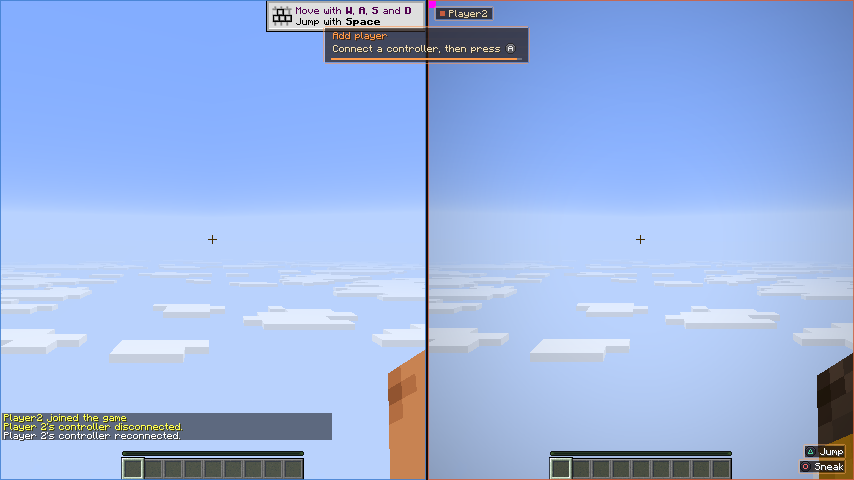
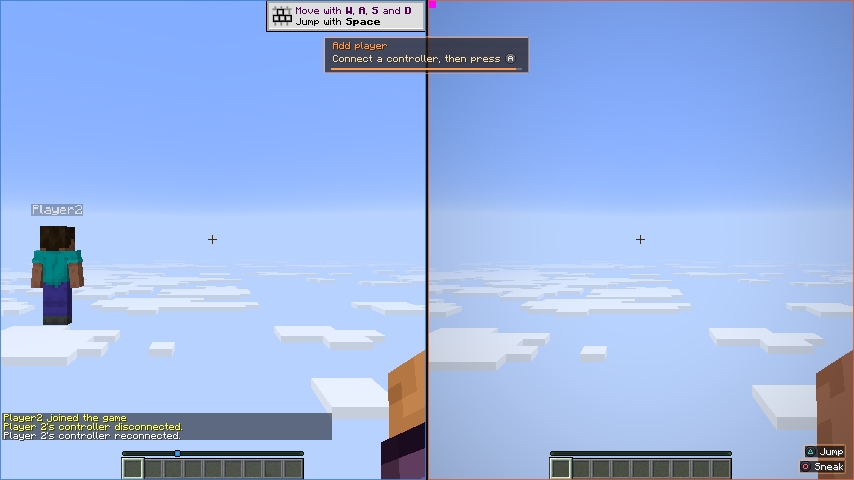
fix: join prompt sits below Minecraft's toasts

diff --git a/fabric/src/client/java/dev/hearthside/fabric/client/ui/JoinToast.java b/fabric/src/client/java/dev/hearthside/fabric/client/ui/JoinToast.java
@@ -2,12 +2,18 @@ package dev.hearthside.fabric.client.ui;
 
 import dev.hearthside.core.input.Control;
 import dev.hearthside.core.input.PadStyle;
+import dev.hearthside.core.layout.BelowToasts;
 import dev.hearthside.core.layout.Ease;
+import dev.hearthside.core.layout.Rect;
+import dev.hearthside.core.layout.ViewFrame;
 import dev.hearthside.fabric.HearthsideMod;
 import dev.hearthside.fabric.client.compositor.OverlayContext;
 import dev.hearthside.fabric.client.compositor.OverlayLayer;
+import dev.hearthside.fabric.client.input.ToastRects;
 import java.time.Duration;
+import java.util.ArrayList;
 import java.util.EnumSet;
+import java.util.List;
 import java.util.Set;
 import java.util.function.Supplier;
 import net.minecraft.client.Minecraft;
@@ -28,6 +34,12 @@ import net.minecraft.network.chat.Component;
 public final class JoinToast implements OverlayLayer {
 	public static final Duration IN = Duration.ofMillis(180), OUT = Duration.ofMillis(150);
 	private static final int HEIGHT = 38, ORANGE = 0xFFFF9A4A, CREAM = 0xFFF3DFB6;
+	/** Kept between the toast and one of Minecraft's above it. */
+	private static final int GAP = 4;
+	/** How fast it moves to a new place below Minecraft's toasts, in GUI pixels a second (a toast's height in ~0.15 s). */
+	private static final float SETTLE_SPEED = 220f;
+	/** How far it drops as it fades in under one of Minecraft's toasts: from that toast's edge, never over it. */
+	private static final int FADE_DROP = GAP;
 	/** The Add player prompt's controller: it isn't any one controller's. */
 	private static final String ADD_PLAYER = "";
 
@@ -44,6 +56,25 @@ public final class JoinToast implements OverlayLayer {
 	private boolean reduceMotion;
 	/** For the Add player prompt: the free controllers' family, or null while none is connected. */
 	private Supplier<PadStyle> freeStyle = () -> null;
+	/** Where the toast's top sits now, gliding to its place clear of Minecraft's toasts; NaN while out of sight. */
+	private float placed = Float.NaN;
+	private long placedAt;
+	/** The slide being drawn (a showing's start, or minus a leaving's), and whether it fades rather than slides. */
+	private long slideKey = Long.MIN_VALUE;
+	private boolean fadeSlide;
+	/** For the E2E: where the toast was last drawn, and Minecraft's toasts it kept clear of then. */
+	private Rect e2eDrawn;
+	private List<Rect> e2eToasts = List.of();
+
+	/** E2E: where the toast was last drawn (null before it ever was), in the units it was drawn in. */
+	public Rect e2eDrawn() {
+		return e2eDrawn;
+	}
+
+	/** E2E: Minecraft's toasts as the toast last saw them, in the same units. */
+	public List<Rect> e2eToasts() {
+		return e2eToasts;
+	}
 
 	/** Over every view and everything on them (cards, name tags, borders, the party panel). */
 	@Override
@@ -134,23 +165,49 @@ public final class JoinToast implements OverlayLayer {
 
 	@Override
 	public void extract(GuiGraphicsExtractor g, OverlayContext context) {
-		// Over split play: centred on the window, below the first row of name tags and Minecraft's own toasts.
-		draw(g, context.guiWidth(), context.nanos(), 26);
+		// Over split play: centred on the window, below the first row of name tags, and below any of Minecraft's toasts
+		// in player 1's view it would meet.
+		draw(g, context.guiWidth(), context.nanos(), 26, hostToasts(context));
 	}
 
 	/** On player 1's own screen, alone: centred at the top, clear of Minecraft's toasts (the right 160 GUI px). */
 	public void draw(GuiGraphicsExtractor g, int width, long now) {
-		draw(g, width, now, -1);
+		draw(g, width, now, -1, ToastRects.visible(Minecraft.getInstance()));
 	}
 
-	/** Draws the toast at the top; {@code top} >= 0 places it there, centred, else it is clear of the toast column. */
-	private void draw(GuiGraphicsExtractor g, int width, long now, int top) {
+	/** Minecraft's toasts in player 1's view (their GUI pixels), in the overlay's units over that view. */
+	private static List<Rect> hostToasts(OverlayContext context) {
+		Minecraft minecraft = Minecraft.getInstance();
+		ViewFrame own = context.views().stream().filter(v -> v.seat() == 0).findFirst().orElse(null);
+		int guiWidth = minecraft.getWindow().getGuiScaledWidth(), guiHeight = minecraft.getWindow().getGuiScaledHeight();
+		if (own == null || guiWidth <= 0 || guiHeight <= 0) {
+			return List.of();
+		}
+		Rect view = own.rect();
+		float sx = view.width() / (float) guiWidth, sy = view.height() / (float) guiHeight;
+		List<Rect> toasts = new ArrayList<>();
+		for (Rect r : ToastRects.visible(minecraft)) {
+			int x = view.x() + (int) Math.floor(r.x() * sx), y = view.y() + (int) Math.floor(r.y() * sy);
+			int right = view.x() + (int) Math.ceil((r.x() + r.width()) * sx);
+			int bottom = view.y() + (int) Math.ceil((r.y() + r.height()) * sy);
+			toasts.add(new Rect(x, y, right - x, bottom - y));
+		}
+		return toasts;
+	}
+
+	/**
+	 * Draws the toast at the top; {@code top} >= 0 places it there, centred, else it is clear of the toast column. Where
+	 * it would meet one of Minecraft's {@code toasts} it sits just below the lowest, gliding there and back as they come
+	 * and go; it fades in there instead of sliding down across that toast.
+	 */
+	private void draw(GuiGraphicsExtractor g, int width, long now, int top, List<Rect> toasts) {
 		Prompt prompt = shown != null ? shown : leaving;
 		float offset = offset(now);
 		if (prompt == null || offset <= -HEIGHT - 6) {
 			if (shown == null) {
 				leaving = null;
 			}
+			placed = Float.NaN;
 			return;
 		}
 		Font font = Minecraft.getInstance().font;
@@ -178,20 +235,47 @@ public final class JoinToast implements OverlayLayer {
 		int line = font.width(before) + 4 + glyph + afterW;
 		int w = Math.max(130, Math.max(font.width(heading), line) + 24);
 		int x = top >= 0 ? (width - w) / 2 : Math.max(6, Math.min((width - w) / 2, width - 160 - 8 - w));
-		int y = (top >= 0 ? top : 6) + Math.round(offset);
-		g.blitSprite(RenderPipelines.GUI_TEXTURED, HearthSprites.GLASS_PANEL, x, y, w, HEIGHT);
-		HearthDraw.label(g, font, heading, x + 10, y + 6, ORANGE);
+		int own = top >= 0 ? top : 6;
+		int wanted = BelowToasts.top(own, x, w, HEIGHT, GAP, toasts);
+		if (Float.isNaN(placed) || reduceMotion) {
+			placed = wanted; // it appears where it belongs
+		} else {
+			// Glides, so its own slide never jumps when a toast comes or goes.
+			float step = SETTLE_SPEED * Math.max(0, now - placedAt) / 1e9f;
+			placed = placed < wanted ? Math.min(wanted, placed + step) : Math.max(wanted, placed - step);
+		}
+		placedAt = now;
+		int base = Math.round(placed);
+		// Each slide, in or out, keeps the way it started: a full slide from the top, or, under one of Minecraft's toasts
+		// (which a full slide would cross), a short drop as it fades in, or rise as it fades out.
+		long slide = shown != null ? prompt.since() : -leavingSince;
+		if (slide != slideKey) {
+			slideKey = slide;
+			fadeSlide = base > own;
+		}
+		float progress = 1 + offset / HEIGHT; // 0 out of sight, 1 in place
+		int y = base + (fadeSlide ? -Math.round(FADE_DROP * (1 - progress)) : Math.round(offset));
+		float alpha = fadeSlide ? Math.clamp(progress, 0f, 1f) : 1f;
+		e2eDrawn = new Rect(x, y, w, HEIGHT);
+		e2eToasts = toasts;
+		g.blitSprite(RenderPipelines.GUI_TEXTURED, HearthSprites.GLASS_PANEL, x, y, w, HEIGHT, faded(0xFFFFFFFF, alpha));
+		HearthDraw.label(g, font, heading, x + 10, y + 6, faded(ORANGE, alpha));
 		int lx = x + 10;
-		HearthDraw.label(g, font, before, lx, y + 19, CREAM);
+		HearthDraw.label(g, font, before, lx, y + 19, faded(CREAM, alpha));
 		lx += font.width(before) + 4;
-		HearthDraw.glyph(g, Control.A, style, lx, y + 17);
+		HearthDraw.glyph(g, Control.A, style, lx, y + 17, faded(0xFFFFFFFF, alpha));
 		if (afterW > 0) {
-			HearthDraw.label(g, font, after, lx + glyph + 4, y + 19, CREAM);
+			HearthDraw.label(g, font, after, lx + glyph + 4, y + 19, faded(CREAM, alpha));
 		}
 		// The confirm window running out.
 		float remaining = Math.clamp((prompt.until() - now) / (float) (prompt.until() - prompt.since()), 0f, 1f);
 		int barX = x + 8, barW = w - 16, barY = y + HEIGHT - 6;
-		g.fill(barX, barY, barX + barW, barY + 2, 0x40FFFFFF);
-		g.fill(barX, barY, barX + Math.round(barW * remaining), barY + 2, ORANGE);
+		g.fill(barX, barY, barX + barW, barY + 2, faded(0x40FFFFFF, alpha));
+		g.fill(barX, barY, barX + Math.round(barW * remaining), barY + 2, faded(ORANGE, alpha));
+	}
+
+	/** {@code argb} with its alpha scaled by {@code alpha}. */
+	private static int faded(int argb, float alpha) {
+		return Math.round((argb >>> 24) * alpha) << 24 | argb & 0xFFFFFF;
 	}
 }

diff --git a/fabric/src/client/java/dev/hearthside/fabric/client/dev/E2eDriver.java b/fabric/src/client/java/dev/hearthside/fabric/client/dev/E2eDriver.java
@@ -4490,6 +4490,17 @@ public final class E2eDriver {
 		check(onRender(() -> minecraft.gui.screen() == null), "Add player closes the menu");
 	}
 
+	/** The join prompt as last drawn overlaps none of Minecraft's toasts in player 1's view (it sits below them). */
+	private void promptClearOfToasts(String shot) throws Exception {
+		var toast = onRender(() -> Party.current().joinToast());
+		var drawn = onRender(toast::e2eDrawn);
+		var toasts = onRender(toast::e2eToasts);
+		HearthsideMod.LOGGER.info("Hearthside E2E {} prompt={} toasts={}", shot, drawn, toasts);
+		check(drawn != null, shot + ": the prompt was drawn");
+		check(!toasts.isEmpty(), shot + ": it saw the tutorial toast");
+		check(toasts.stream().noneMatch(drawn::intersects), shot + ": the prompt " + drawn + " overlaps a toast " + toasts);
+	}
+
 	/** Backs a newcomer out of their profile picker and waits until their seat is free. */
 	private void backOut(int pad) throws Exception {
 		if (onRender(() -> card(2) != null)) {
@@ -4505,12 +4516,28 @@ public final class E2eDriver {
 	 */
 	private void addPlayer() throws Exception {
 		long mark = hostLogLength();
+		// Minecraft's keyboard tutorial toast in player 1's view, by the window's centre where the prompt hangs: the prompt
+		// sits below it, never over it. The new world's own is still up unless an earlier step took a controller.
+		TutorialToast tutorial = onRender(() -> {
+			if (hasTutorialToast()) {
+				return null;
+			}
+			TutorialToast t = new TutorialToast(minecraft.font, TutorialToast.Icons.MOVEMENT_KEYS,
+					Component.literal("Move with W, A, S and D"), Component.literal("Jump with Space"), false);
+			minecraft.gui.toastManager().addToast(t);
+			return t;
+		});
+		waitFor("the keyboard tutorial toast showing", Duration.ofSeconds(3), () -> onRender(this::hasTutorialToast));
+		Thread.sleep(1000); // slid in
 		try {
 			// (b) The prompt expires after 15 s.
 			chooseAddPlayer();
 			waitFor("the add-player prompt", Duration.ofSeconds(5), () -> hostLogSince(mark).contains("hearthside add player prompt shown"));
-			Thread.sleep(400); // slid into place
+			Thread.sleep(50);
+			promptClearOfToasts("add-player coming in"); // its slide doesn't cross the tutorial toast either
+			Thread.sleep(400); // in place
 			windowShot("add-player-connect"); // no free controller yet: "Connect a controller, then press A"
+			promptClearOfToasts("add-player-connect");
 			jumpJoinClock(16);
 			waitFor("(b) the prompt expired", Duration.ofSeconds(5),
 					() -> hostLogSince(mark).contains("hearthside add player prompt expired"));
@@ -4522,6 +4549,7 @@ public final class E2eDriver {
 			chooseAddPlayer();
 			Thread.sleep(400);
 			windowShot("add-player"); // "Press A on a new controller to join"
+			promptClearOfToasts("add-player");
 			press(ADD_PAD, PadButton.A);
 			waitFor("(a) one A joins: a newcomer choosing a profile", Duration.ofSeconds(5),
 					() -> onRender(() -> card(2) != null));
@@ -4544,9 +4572,27 @@ public final class E2eDriver {
 			waitFor("Esc cancelled the prompt", Duration.ofSeconds(5),
 					() -> hostLogSince(cancel).contains("hearthside add player prompt cancelled"));
 			check(onRender(() -> minecraft.gui.screen() == null), "and didn't open the pause menu");
+
+			// B on player 1's controller cancels it too (after the screenshots: taking a controller clears the keyboard
+			// tutorial toast).
+			claimHostPad();
+			try {
+				long padCancel = hostLogLength();
+				chooseAddPlayer();
+				press(HOST_PAD, PadButton.B);
+				waitFor("B on player 1's controller cancelled the prompt", Duration.ofSeconds(5),
+						() -> hostLogSince(padCancel).contains("hearthside add player prompt cancelled"));
+				check(onRender(() -> minecraft.gui.screen() == null && !Party.current().addPlayerShowing()),
+						"and opened nothing");
+			} finally {
+				releaseHostPad();
+			}
 		} finally {
 			onRender(() -> {
 				minecraft.gui.setScreen(null);
+				if (tutorial != null) {
+					tutorial.hide();
+				}
 				return null;
 			});
 			backOut(ADD_PAD);

diff --git a/core/src/test/java/dev/hearthside/core/layout/BelowToastsTest.java b/core/src/test/java/dev/hearthside/core/layout/BelowToastsTest.java
@@ -1,0 +1,43 @@
+package dev.hearthside.core.layout;
+
+import static org.assertj.core.api.Assertions.assertThat;
+
+import java.util.List;
+import org.junit.jupiter.api.Test;
+
+/** The join prompt keeps clear of Minecraft's toasts in player 1's view (Spec E section 3.4). */
+class BelowToastsTest {
+	static final int X = 100, W = 200, H = 38, GAP = 4, TOP = 26;
+
+	@Test
+	void staysAtItsPlaceWithNoToasts() {
+		assertThat(BelowToasts.top(TOP, X, W, H, GAP, List.of())).isEqualTo(TOP);
+	}
+
+	@Test
+	void sitsJustBelowAToastItWouldMeet() {
+		assertThat(BelowToasts.top(TOP, X, W, H, GAP, List.of(new Rect(50, 0, 160, 32)))).isEqualTo(36);
+	}
+
+	@Test
+	void aToastBesideItChangesNothing() {
+		assertThat(BelowToasts.top(TOP, X, W, H, GAP, List.of(new Rect(300, 0, 160, 32)))).isEqualTo(TOP);
+		assertThat(BelowToasts.top(TOP, X, W, H, GAP, List.of(new Rect(0, 0, 100, 32)))).isEqualTo(TOP);
+	}
+
+	@Test
+	void aToastEndingWithinTheGapAboveStillMovesIt() {
+		assertThat(BelowToasts.top(TOP, X, W, H, GAP, List.of(new Rect(50, 0, 160, 24)))).isEqualTo(28);
+	}
+
+	@Test
+	void aToastFarBelowChangesNothing() {
+		assertThat(BelowToasts.top(TOP, X, W, H, GAP, List.of(new Rect(50, 200, 160, 32)))).isEqualTo(TOP);
+	}
+
+	@Test
+	void belowTheLowestOfAStack() {
+		List<Rect> stack = List.of(new Rect(250, 32, 160, 32), new Rect(250, 0, 160, 32));
+		assertThat(BelowToasts.top(TOP, X, W, H, GAP, stack)).isEqualTo(68);
+	}
+}

diff --git a/core/src/main/java/dev/hearthside/core/layout/BelowToasts.java b/core/src/main/java/dev/hearthside/core/layout/BelowToasts.java
@@ -1,0 +1,27 @@
+package dev.hearthside.core.layout;
+
+import java.util.Comparator;
+import java.util.List;
+
+/**
+ * Where a panel hung from the top of the screen sits clear of Minecraft's toasts (the join prompt, Spec E section 3.4):
+ * at its own place when nothing is in the way, else just below the lowest toast it would meet, a gap clear of each.
+ */
+public final class BelowToasts {
+	private BelowToasts() {}
+
+	/**
+	 * The top edge for a panel {@code width} wide and {@code height} tall at {@code x}, wanted at {@code top}, kept
+	 * {@code gap} clear of each of {@code toasts} it would come within that gap of.
+	 */
+	public static int top(int top, int x, int width, int height, int gap, List<Rect> toasts) {
+		int y = top;
+		// Top to bottom: moving below one toast can only bring the panel to toasts lower down.
+		for (Rect toast : toasts.stream().sorted(Comparator.comparingInt(Rect::y)).toList()) {
+			if (new Rect(x, y - gap, width, height + 2 * gap).intersects(toast)) {
+				y = toast.y() + toast.height() + gap;
+			}
+		}
+		return y;
+	}
+}
